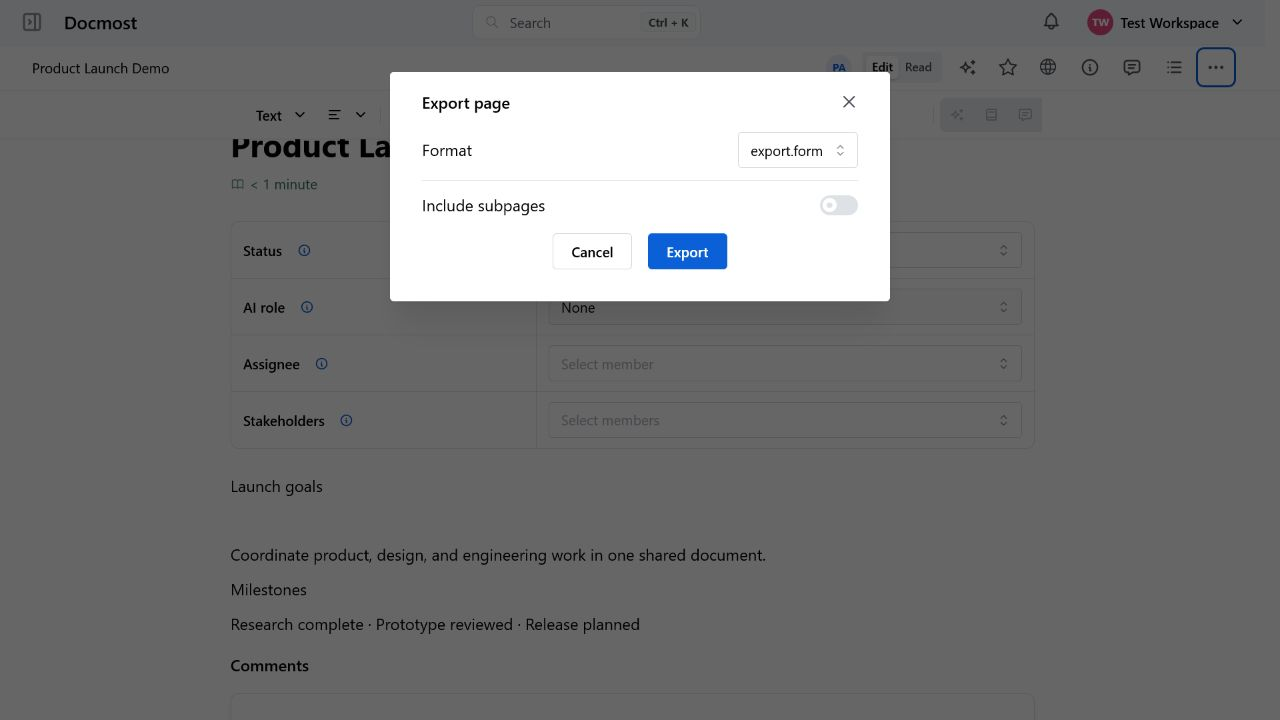
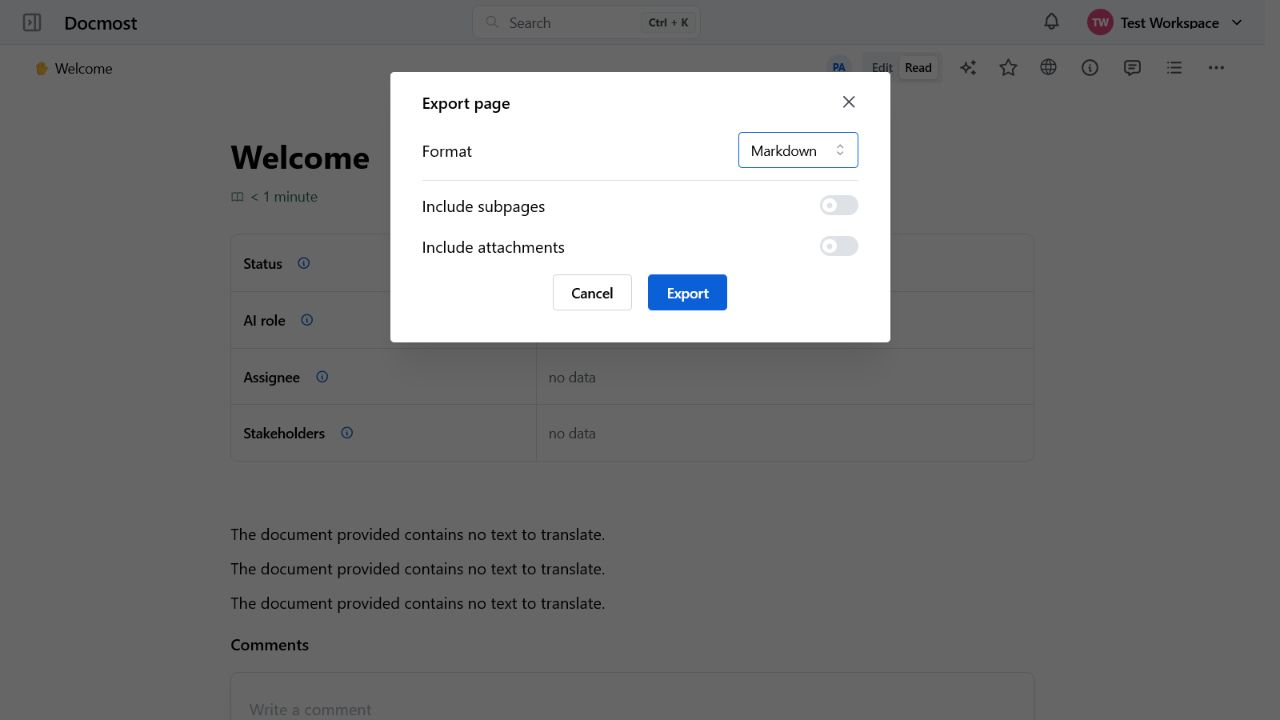
docs: expand fork enhancement visuals

diff --git a/README.md b/README.md
@@ -119,7 +119,7 @@ Supported capabilities include:
 
 - deduplication of contextual search results;
 
-- separate RAG and MCP key types, management screens, and onboarding presets;
+- separate RAG and MCP key types managed from one API keys page with dedicated tabs and onboarding presets;
 
 - a shared content-exclusion policy applied to retrieval, synchronization, agent tools, and MCP results;
 
@@ -214,6 +214,8 @@ AI features are implemented as a separate server-side subsystem:
 
 - hiding responses when access to the source material has been lost.
 
+![AI request limits and retention controls](./docs/images/fork-specific-enhancements/en/ai-request-infrastructure.png)
+
 
 ### 5. Notion-style databases
 
@@ -239,7 +241,11 @@ The fork includes structured databases:
 
 - database change history;
 
+- administrator-only deletion of individual history versions;
+
 - correct copying and duplication of structures together with attachments.
+
+![Database page and table controls](./docs/images/fork-specific-enhancements/en/database.png)
 
 
 ### 6. Extended document properties
@@ -309,6 +315,10 @@ Search works across pages, databases, rows, and attachments while preserving cur
 
 - PDF and DOCX names and extracted text are searchable;
 
+- search filters cover spaces, content types, page labels, and inline TBD/TODO tags;
+
+- result breadcrumbs show where a page or database row sits in the content tree;
+
 - extraction has bounded byte, page, archive-entry, text-size, and wall-clock budgets;
 
 - indexing status distinguishes pending, processing, ready, skipped, and failed files;
@@ -316,6 +326,8 @@ Search works across pages, databases, rows, and attachments while preserving cur
 - abandoned work is reconciled after restart, while permanently unreadable files are not retried forever;
 
 - indexed candidates are always reloaded from PostgreSQL and rechecked against live access policy before being returned.
+
+![Search filters and result breadcrumbs](./docs/images/fork-specific-enhancements/en/search-indexing.png)
 
 
 ### 9. Extended editor
@@ -411,6 +423,10 @@ The collaboration system has been extended with:
 
 - hiding resolved discussions;
 
+- automatic collapsing of long comments and reply threads;
+
+- copying a page to Markdown together with open and resolved comments and their document locations;
+
 - indicators showing users who are viewing or editing a document;
 
 - real-time user presence;
@@ -448,6 +464,8 @@ An extended notification system has been added:
 
 - recipient access checks for the document.
 
+![Push and email notification preferences](./docs/images/fork-specific-enhancements/en/notifications.png)
+
 
 ### 13. Access control
 
@@ -469,13 +487,15 @@ The fork provides stricter permission management:
 
 - an API key cannot grant more permissions than its creator has;
 
-- API key access is revalidated on every request.
+- API key access is revalidated on every request;
 
 - public sharing can be disabled for the entire workspace or for an individual space;
 
 - public pages, public search, and public attachments recheck the current sharing policy;
 
 - OIDC, SAML, and LDAP group synchronization follows only mappings explicitly created by an administrator.
+
+![Page access control for users and groups](./docs/images/fork-specific-enhancements/en/access-control.png)
 
 
 ### 14. Security
@@ -562,13 +582,23 @@ It also adds:
 
 - accessibility improvements;
 
+- per-page Edit/Read mode and full-width preferences;
+
+- optional restoration of the last scroll position;
+
 - persistence of page-tree state;
 
 - expansion of the entire tree;
 
 - custom links with icons in the space sidebar;
 
+- favorites for pages and spaces;
+
+- space archiving and unarchiving, with archived content kept read-only;
+
 - more consistent placement of controls.
+
+![Home navigation and recently updated pages](./docs/images/fork-specific-enhancements/en/pwa-navigation.png)
 
 
 ### 16. Operations and development
@@ -583,7 +613,11 @@ The fork includes its own maintenance and development infrastructure:
 
 - environment variable validation;
 
+- quick and full composite verification pipelines;
+
 - API route inventory generation;
+
+- automated checks for RAG documentation drift and removed Enterprise Edition runtime remnants;
 
 - security tests;
 
@@ -597,7 +631,11 @@ The fork includes its own maintenance and development infrastructure:
 
 - an `AGENTS.md` file for AI agents working with the repository;
 
+- console-only recovery commands for rebuilding the search index and disabling broken SSO enforcement;
+
 - Graphify support.
+
+![Repository verification and recovery toolchain](./docs/images/fork-specific-enhancements/en/operations-development.svg)
 
 ---
 
